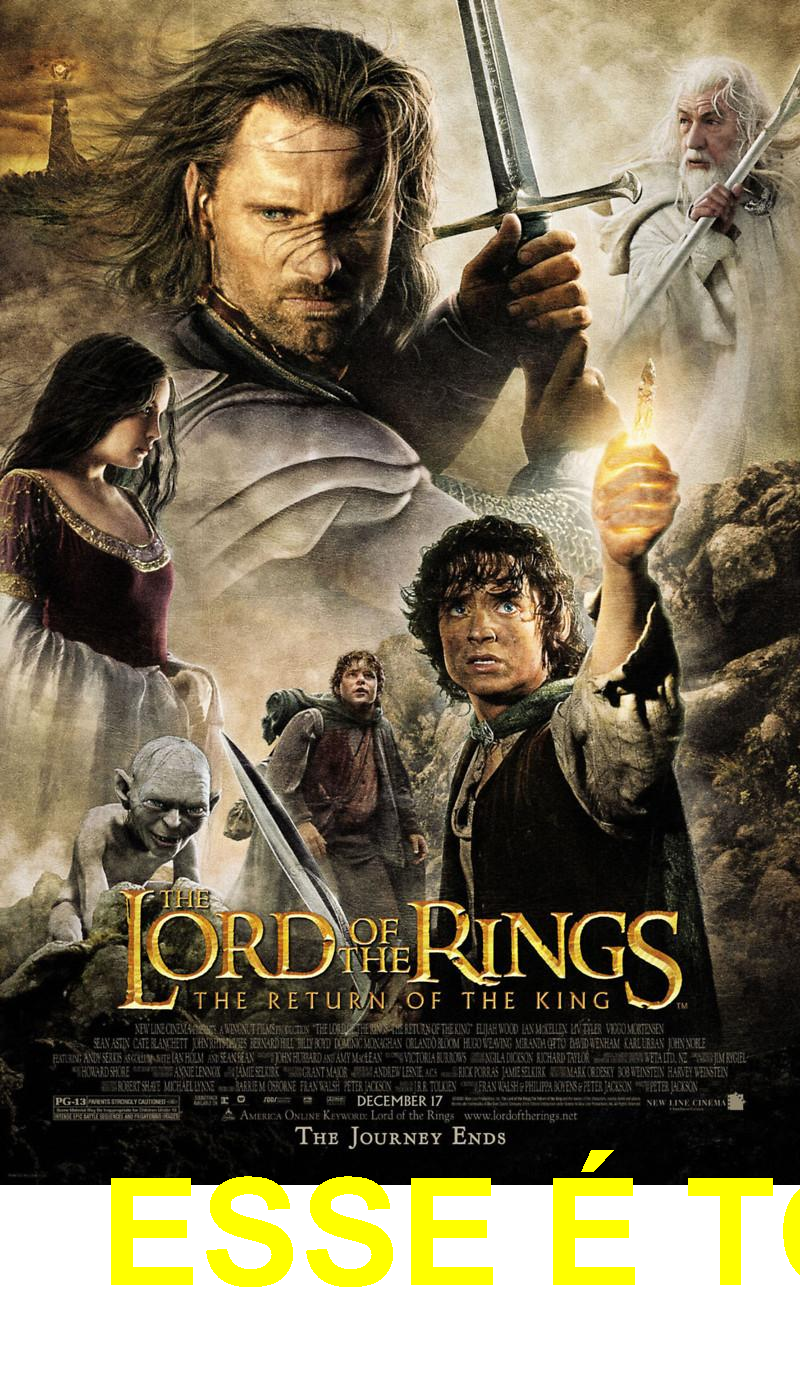
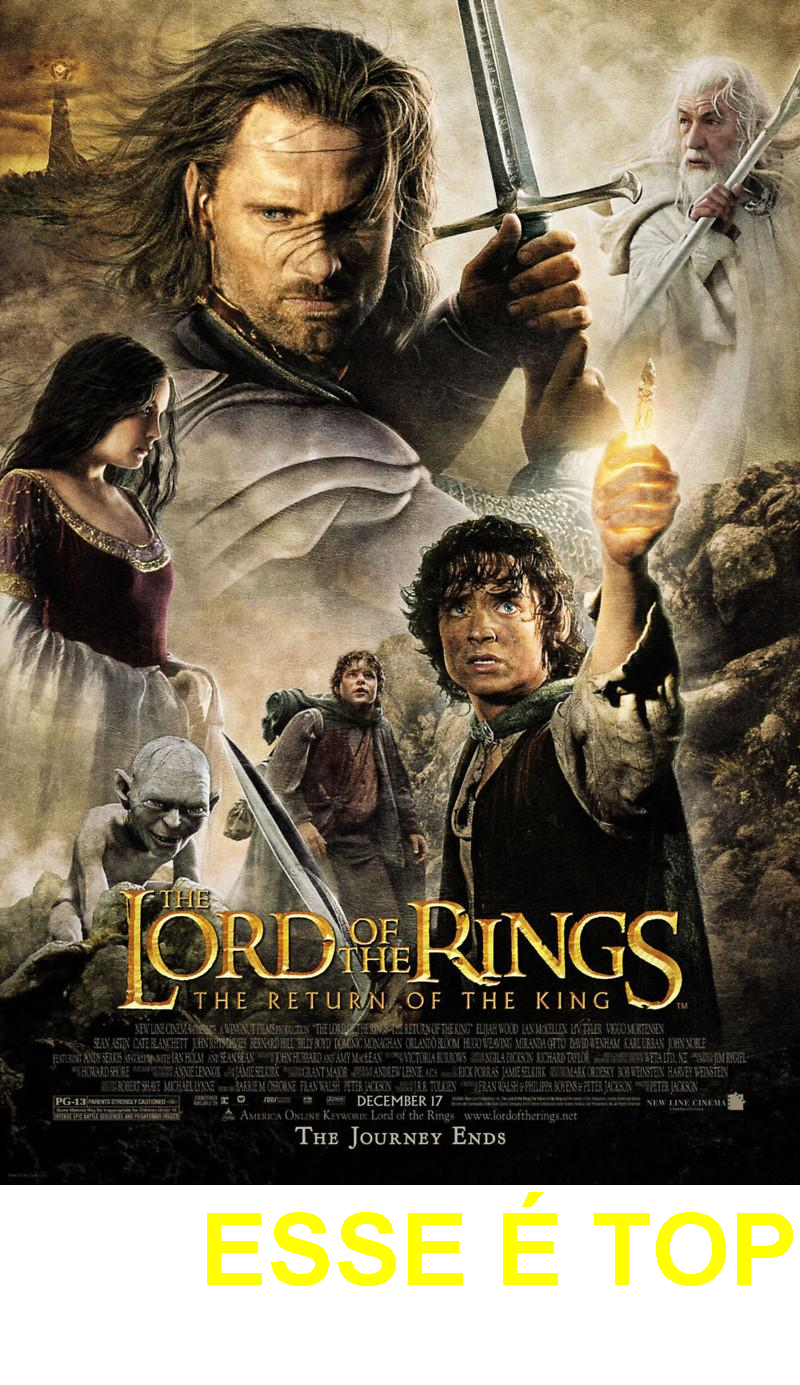
second commit

Changed region(s): [[0.125, 0.8072, 1.0, 0.9314]]

diff --git a/stickers/GeradoraDeFigurinhas.java b/stickers/GeradoraDeFigurinhas.java
@@ -29,12 +29,12 @@ public class GeradoraDeFigurinhas {
         graphics.drawImage(imagemOriginal, 0, 0, null);
 
         // configurar a fonte
-        var fonte = new Font(Font.SANS_SERIF, Font.BOLD, 150);
+        var fonte = new Font(Font.SANS_SERIF, Font.BOLD, 100);
         graphics.setColor(Color.YELLOW);
         graphics.setFont(fonte);
 
         // escrever uma frase na nova imagem
-        graphics.drawString("ESSE É TOP!", 100, novaAltura - 100);
+        graphics.drawString("ESSE É TOP!", 200, novaAltura - 100);
 
         // escrever a nova imagem em um arquivo
         nomeArquivo = formataNomeDoArquivo(nomeArquivo);
